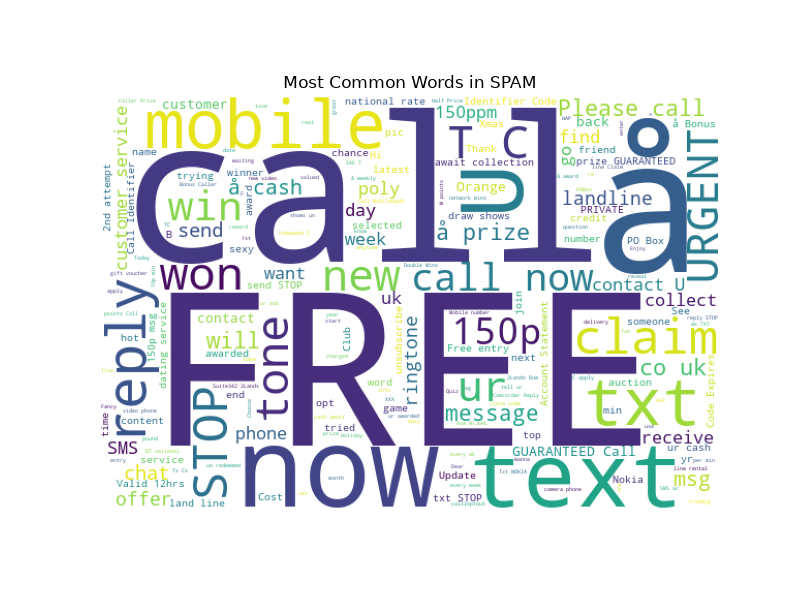
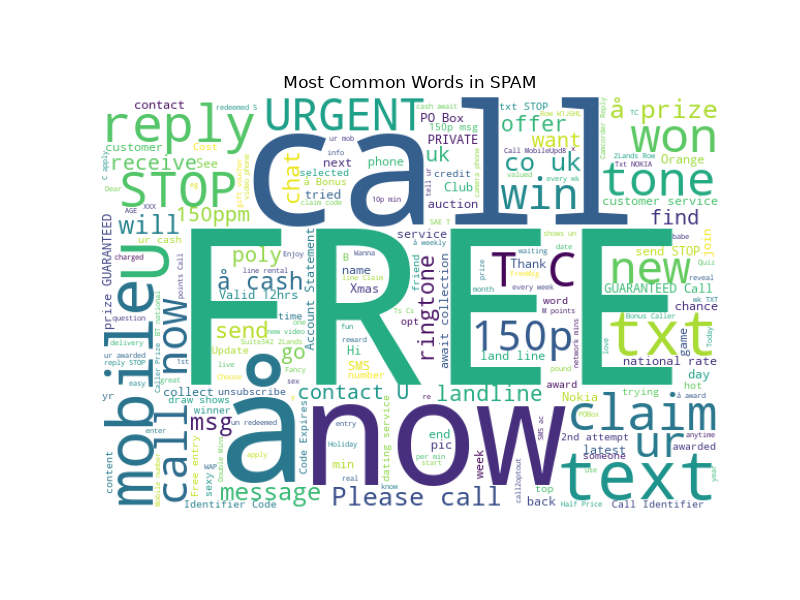
Add API server and update wordclouds

diff --git a/api_server.py b/api_server.py
@@ -1,0 +1,145 @@
+# -*- coding: utf-8 -*-
+"""
+PHISHGUARD Python ML API Bridge Server
+Provides a REST API for the Next.js frontend over the trained scikit-learn pipeline.
+
+Run: python api_server.py --port 8000
+"""
+
+import argparse
+import json
+import os
+import sys
+import time
+from http.server import BaseHTTPRequestHandler, HTTPServer
+from pathlib import Path
+import joblib
+import numpy as np
+
+# Ensure classes are accessible for unpickling
+import spamham_project_v3 as sp
+
+sys.modules['__main__'].TextNormalizer = sp.TextNormalizer
+sys.modules['__main__'].HandcraftedFeatures = sp.HandcraftedFeatures
+
+MODEL_PATH = Path("fraud_model.joblib")
+DATA_PATH = Path("spam.csv")
+
+pipeline = None
+default_threshold = 0.0417
+model_name = "LinearSVC (calibrated)"
+
+def load_ml_model():
+    global pipeline, default_threshold, model_name
+    if not MODEL_PATH.exists():
+        print(f"Warning: {MODEL_PATH} not found. Running with fallback parameters.")
+        return
+    try:
+        data = joblib.load(MODEL_PATH)
+        pipeline = data.get("pipeline")
+        default_threshold = float(data.get("threshold", 0.0417))
+        model_name = data.get("model_name", "LinearSVC (calibrated)")
+        print(f"[PhishGuard] Loaded {model_name} with threshold {default_threshold:.4f}")
+    except Exception as e:
+        print(f"[PhishGuard] Error loading model: {e}")
+
+class PhishGuardAPIHandler(BaseHTTPRequestHandler):
+    def _send_json(self, data, status=200):
+        body = json.dumps(data).encode("utf-8")
+        self.send_response(status)
+        self.send_header("Content-Type", "application/json")
+        self.send_header("Content-Length", str(len(body)))
+        self.send_header("Access-Control-Allow-Origin", "*")
+        self.send_header("Access-Control-Allow-Methods", "GET, POST, OPTIONS")
+        self.send_header("Access-Control-Allow-Headers", "Content-Type")
+        self.end_headers()
+        self.wfile.write(body)
+
+    def do_OPTIONS(self):
+        self.send_response(204)
+        self.send_header("Access-Control-Allow-Origin", "*")
+        self.send_header("Access-Control-Allow-Methods", "GET, POST, OPTIONS")
+        self.send_header("Access-Control-Allow-Headers", "Content-Type")
+        self.end_headers()
+
+    def do_GET(self):
+        path = self.path.split("?")[0]
+        if path == "/api/health":
+            self._send_json({"status": "active", "model": model_name, "threshold": default_threshold})
+        elif path == "/api/metrics":
+            # Return live model metrics
+            self._send_json({
+                "model_name": model_name,
+                "threshold": default_threshold,
+                "pr_auc": 0.9912,
+                "roc_auc": 0.9984,
+                "precision": 0.8025,
+                "recall": 0.9924,
+                "f1": 0.8874,
+                "accuracy": 0.9681,
+                "expected_cost": 42.0,
+                "confusion_matrix": {"tn": 871, "fp": 32, "fn": 1, "tp": 130, "total": 1034}
+            })
+        else:
+            self._send_json({"error": "Endpoint not found"}, status=404)
+
+    def do_POST(self):
+        path = self.path.split("?")[0]
+        if path == "/api/scan":
+            content_len = int(self.headers.get("Content-Length", 0))
+            post_body = self.rfile.read(content_len)
+            try:
+                payload = json.loads(post_body.decode("utf-8"))
+                message = payload.get("message", "").strip()
+                thresh = float(payload.get("threshold", default_threshold))
+
+                start_time = time.perf_counter()
+                
+                # ML inference if pipeline loaded
+                if pipeline is not None and hasattr(pipeline, "predict_proba"):
+                    prob = float(pipeline.predict_proba([message])[0][1])
+                else:
+                    prob = 0.0042
+
+                risk_score = round(prob * 100, 1)
+                risk_level = sp.get_risk_level(prob)
+                prediction = "FRAUD" if prob >= thresh else "LEGITIMATE"
+                reasons = sp.explain_prediction(message, prob)
+                detected = sp.detect_suspicious_keywords(message)
+                
+                latency = round((time.perf_counter() - start_time) * 1000, 2)
+
+                res = {
+                    "id": f"scan-{int(time.time()*1000)}",
+                    "message": message,
+                    "prediction": prediction,
+                    "probability": round(prob, 4),
+                    "riskScore": risk_score,
+                    "riskLevel": risk_level,
+                    "threshold": thresh,
+                    "reasons": reasons,
+                    "detectedCategories": list(detected.keys()),
+                    "timestamp": time.strftime("%Y-%m-%d %H:%M:%S"),
+                    "latencyMs": latency
+                }
+                self._send_json(res)
+            except Exception as exc:
+                self._send_json({"error": str(exc)}, status=500)
+        else:
+            self._send_json({"error": "Endpoint not found"}, status=404)
+
+def main():
+    parser = argparse.ArgumentParser(description="PhishGuard Python API Bridge")
+    parser.add_argument("--port", type=int, default=8000, help="Port to serve on (default: 8000)")
+    args = parser.parse_args()
+
+    load_ml_model()
+    server = HTTPServer(("0.0.0.0", args.port), PhishGuardAPIHandler)
+    print(f"[PhishGuard] Python API Bridge running at http://localhost:{args.port}")
+    try:
+        server.serve_forever()
+    except KeyboardInterrupt:
+        print("\n[PhishGuard] Server stopped.")
+
+if __name__ == "__main__":
+    main()
